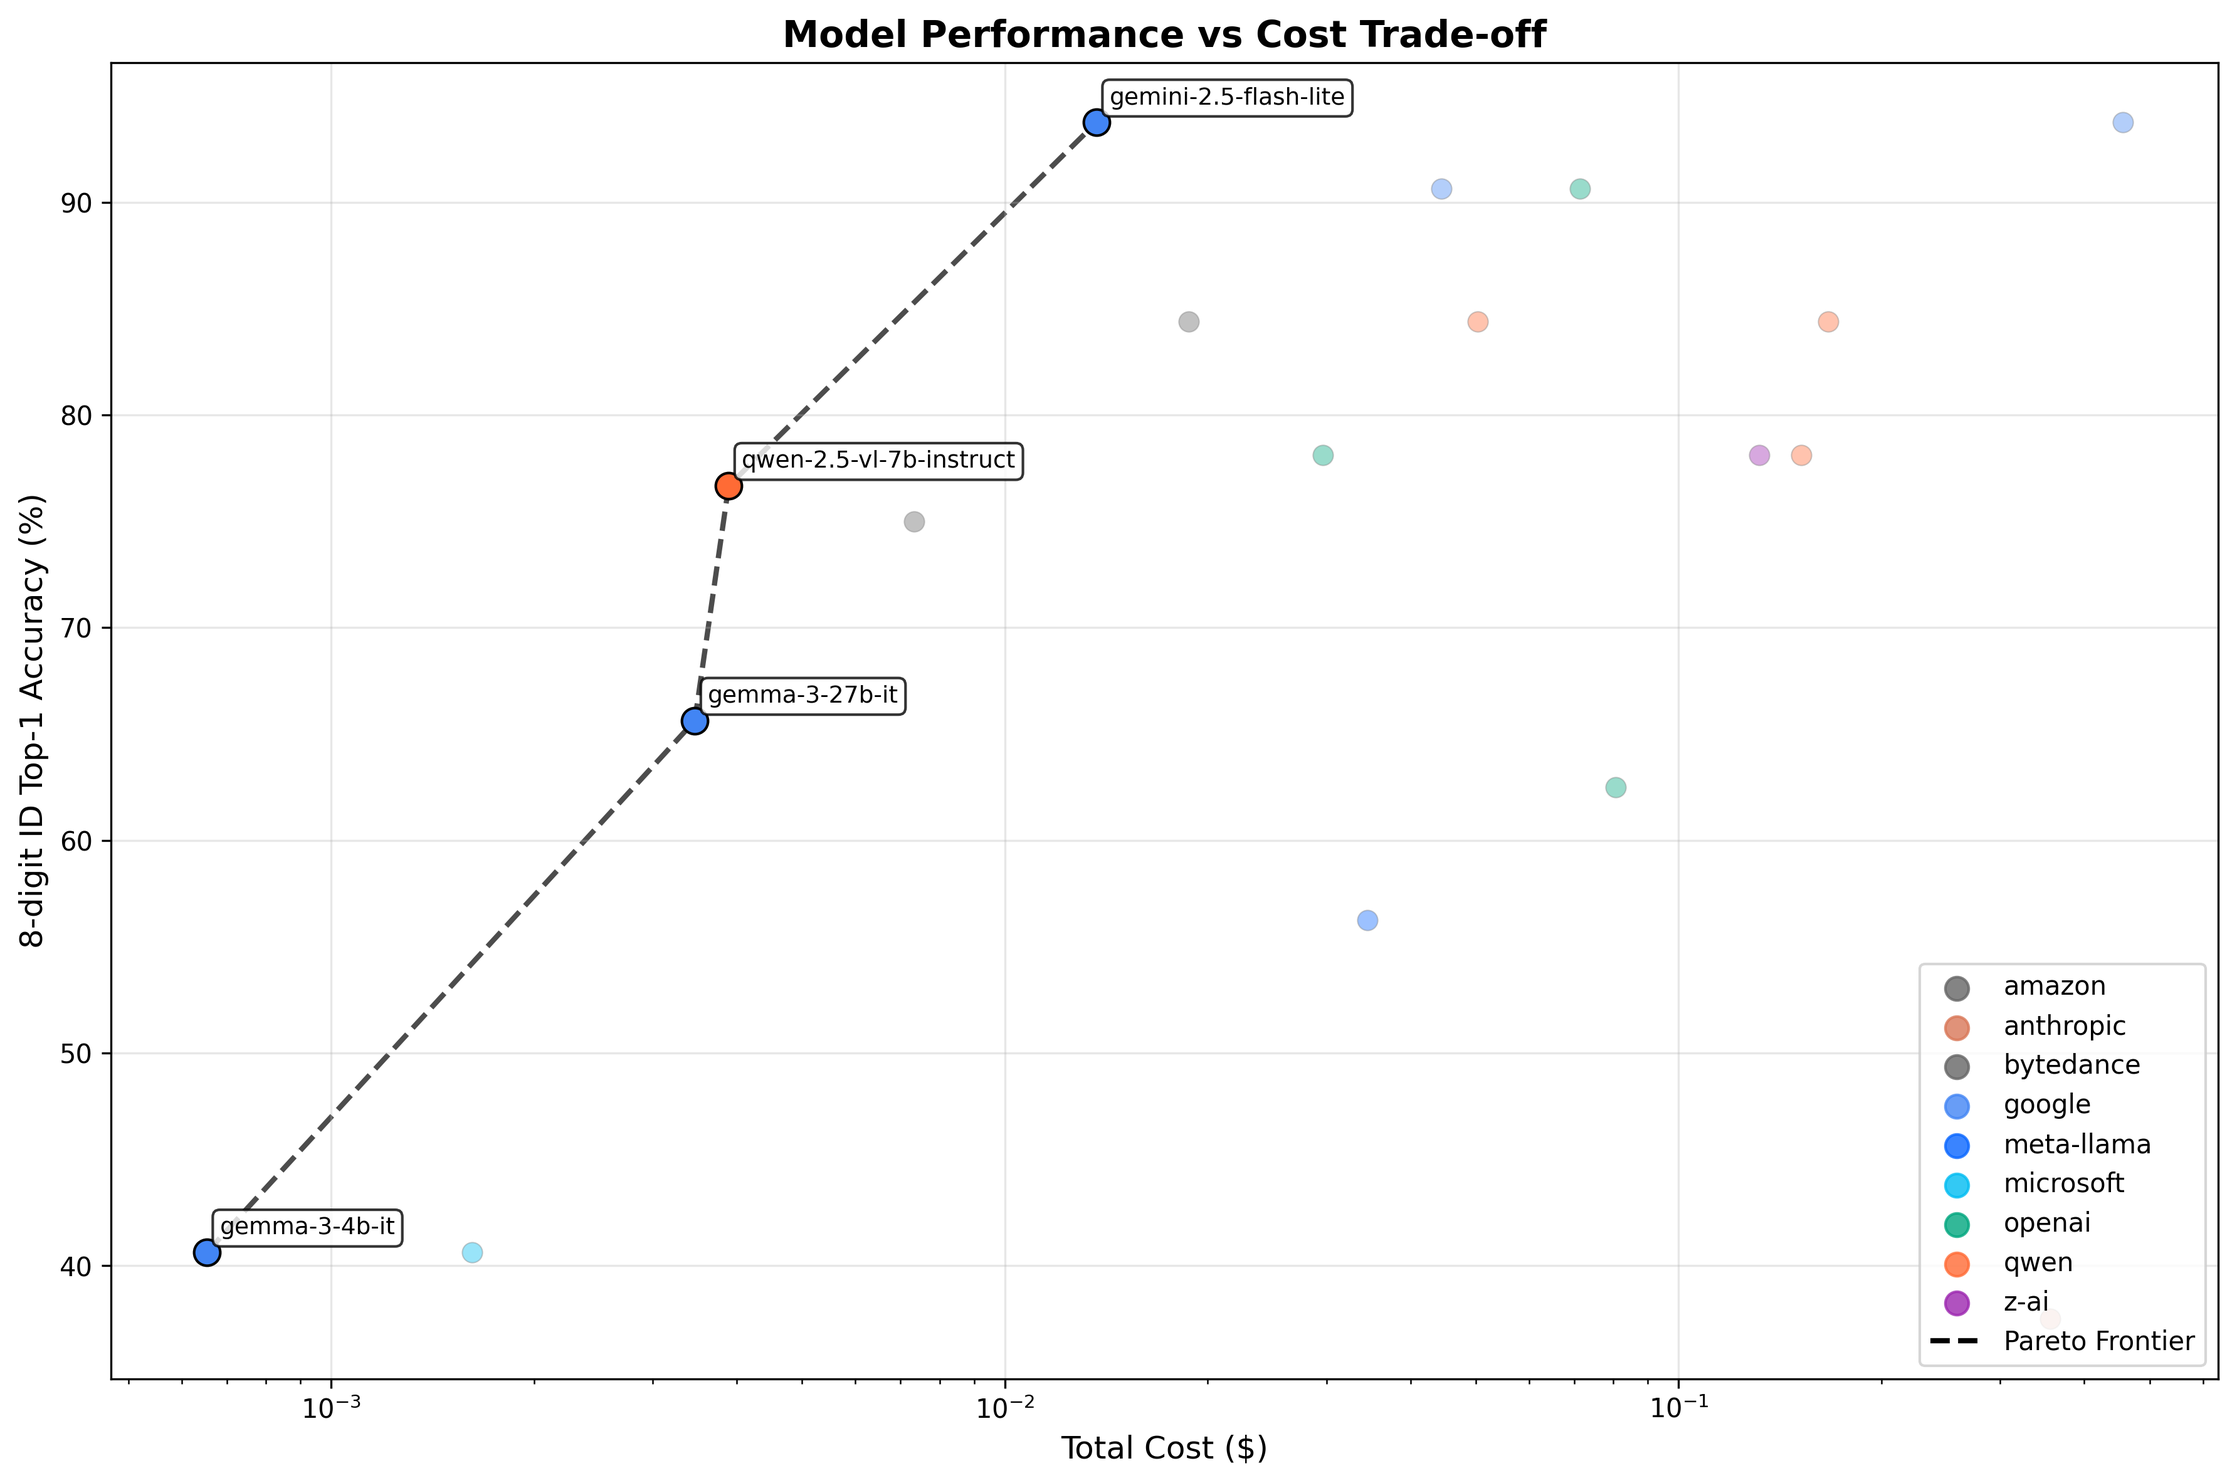
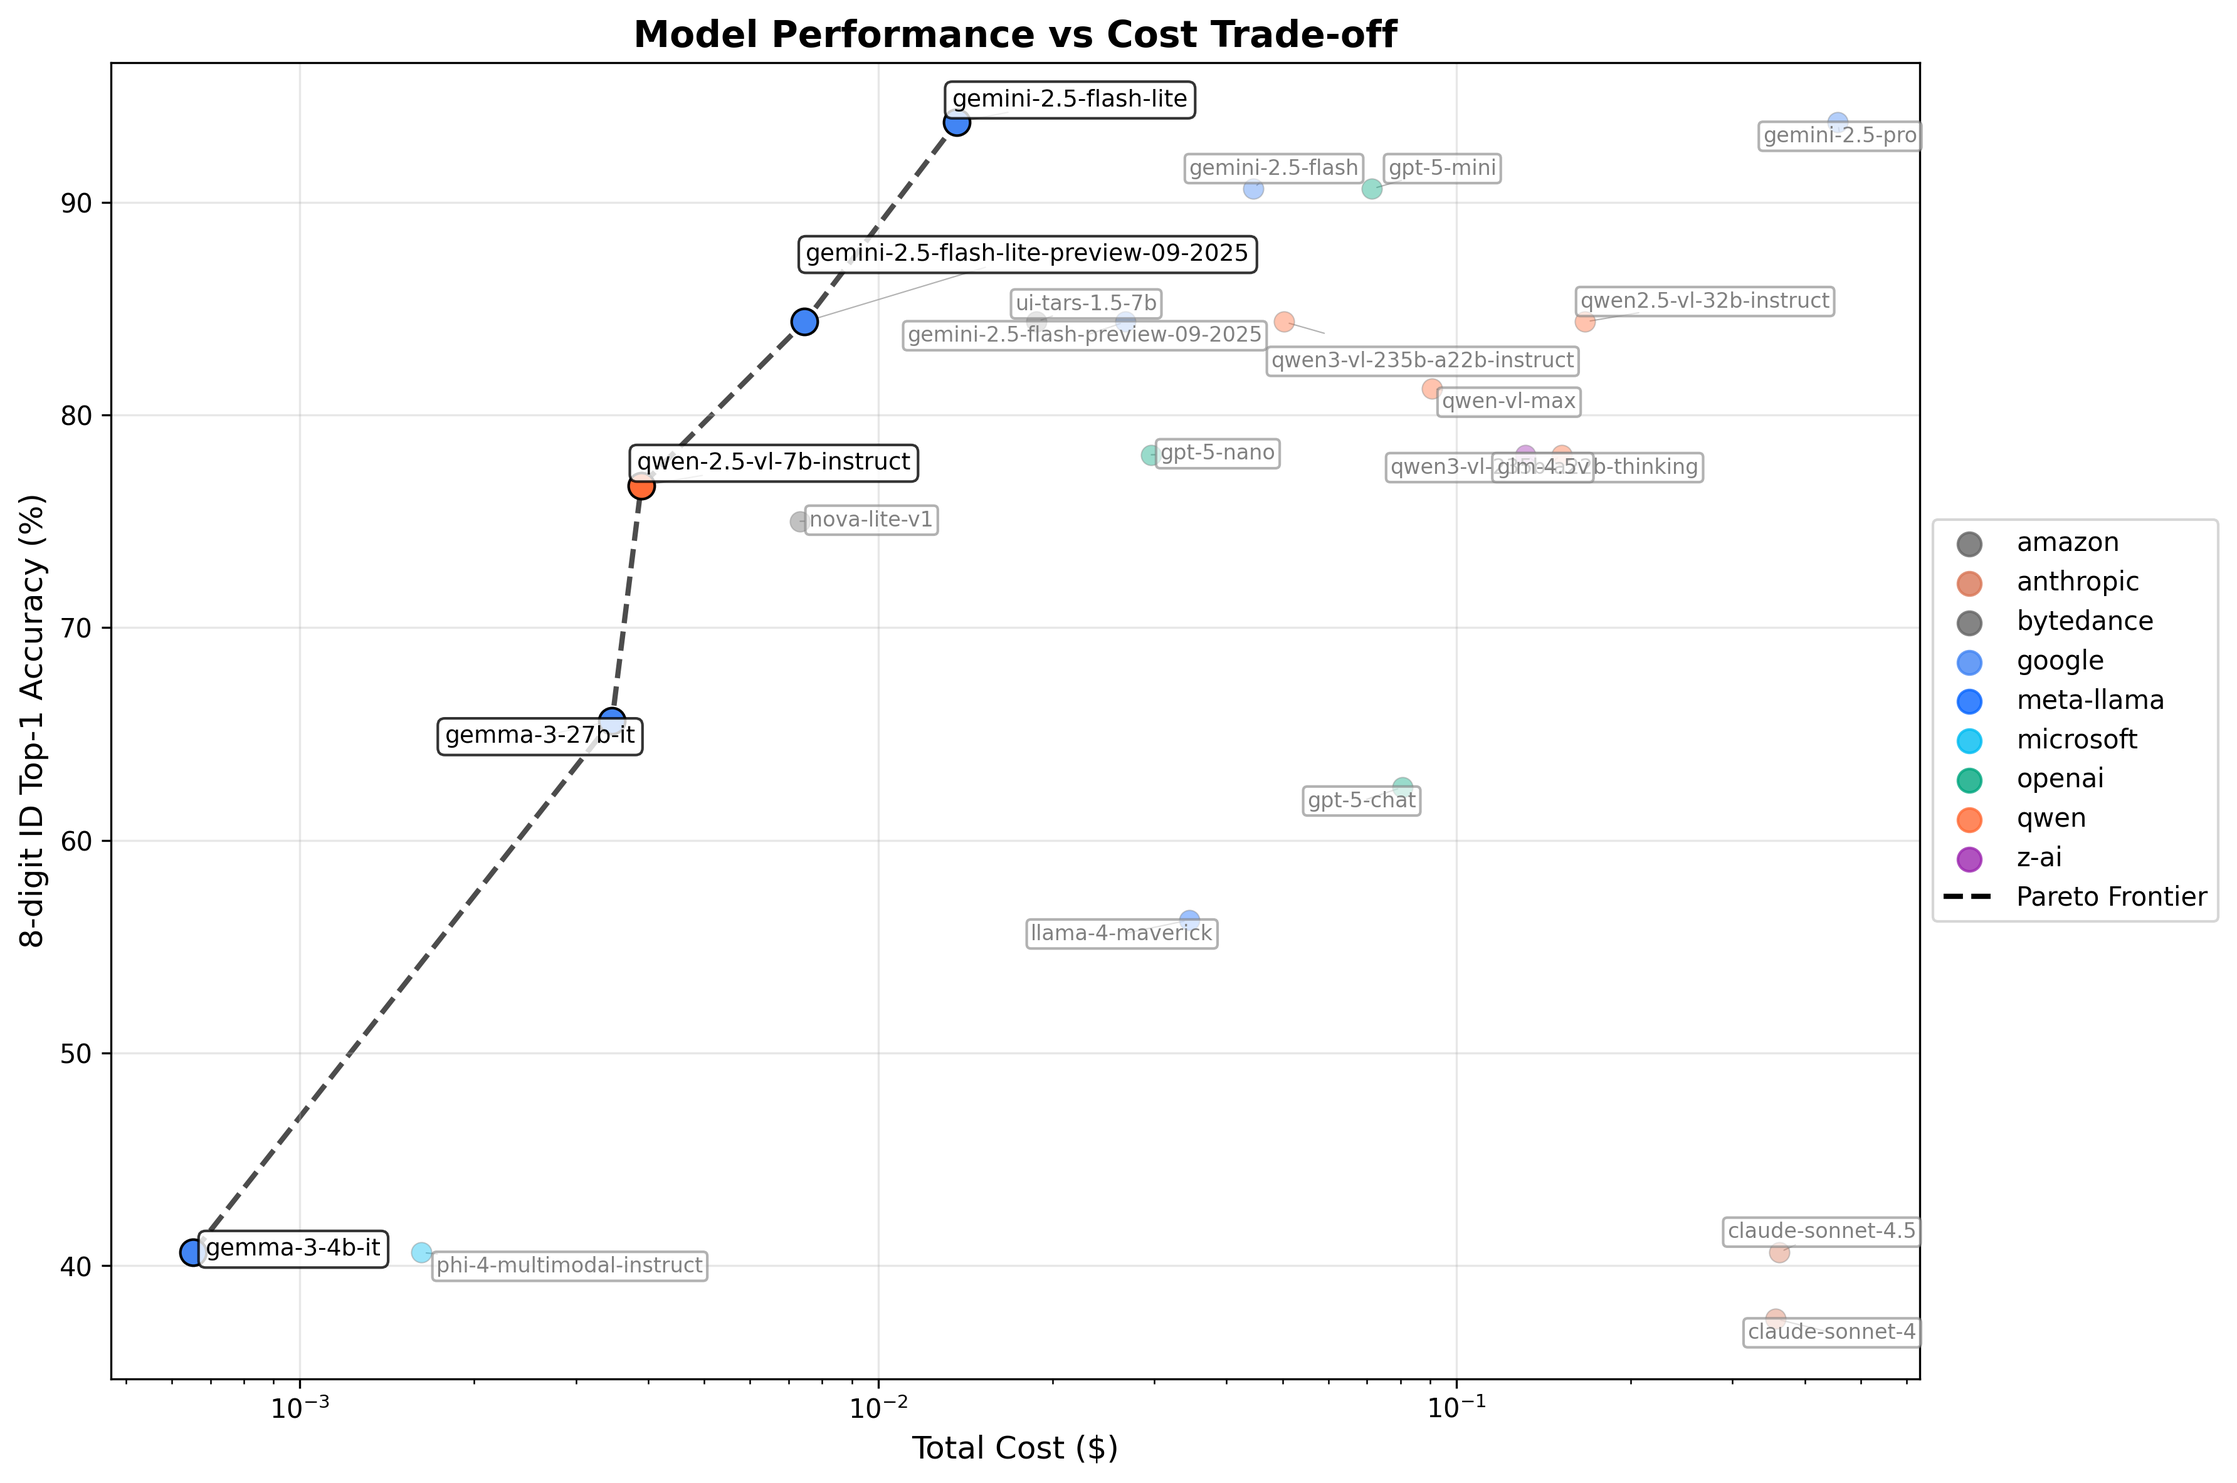
Update benchmark results and model metadata; add new models and adjust Pareto plot functionality

diff --git a/src/batch_doc_vqa/benchmarks/pareto_plot.py b/src/batch_doc_vqa/benchmarks/pareto_plot.py
@@ -9,6 +9,7 @@ import argparse
 from pathlib import Path
 from typing import Dict, List, Tuple
 import json
+from adjustText import adjust_text
 
 from .table_generator import BenchmarkTableGenerator
 
@@ -49,8 +50,9 @@ def get_organization_colors():
     }
 
 
+
 def create_pareto_plot(run_stats: Dict, output_path: str = "pareto_plot.png", 
-                      title: str = "Model Performance vs Cost Trade-off"):
+                      title: str = "Model Performance vs Cost Trade-off", show_all_labels: bool = True):
     """Create Pareto frontier plot for 8-digit_top1 vs total cost."""
     
     # Extract data
@@ -109,14 +111,28 @@ def create_pareto_plot(run_stats: Dict, output_path: str = "pareto_plot.png",
         frontier_scores = [id_top1_scores[i] for i in frontier_indices]
         ax.plot(frontier_costs, frontier_scores, 'k--', alpha=0.7, linewidth=2, zorder=1, label='Pareto Frontier')
     
-    # Add labels only for frontier models
+    # Collect text annotations for adjustText
+    texts = []
+    
+    # Add labels for frontier models (black text)
     for i in frontier_indices:
-        ax.annotate(model_names[i], 
-                   (total_costs[i], id_top1_scores[i]),
-                   xytext=(5, 5), textcoords='offset points',
-                   fontsize=9, ha='left', va='bottom',
-                   bbox=dict(boxstyle='round,pad=0.3', facecolor='white', alpha=0.8),
-                   zorder=4)
+        text = ax.annotate(model_names[i], 
+                          (total_costs[i], id_top1_scores[i]),
+                          fontsize=9, ha='center', va='center',
+                          bbox=dict(boxstyle='round,pad=0.3', facecolor='white', alpha=0.8, edgecolor='black'),
+                          zorder=4)
+        texts.append(text)
+    
+    # Add labels for non-frontier models (gray text) if show_all_labels is True
+    if show_all_labels:
+        for i, (cost, score) in enumerate(zip(total_costs, id_top1_scores)):
+            if i not in frontier_indices:
+                text = ax.annotate(model_names[i], 
+                                  (cost, score),
+                                  fontsize=8, ha='center', va='center', color='gray',
+                                  bbox=dict(boxstyle='round,pad=0.2', facecolor='white', alpha=0.6, edgecolor='gray'),
+                                  zorder=3)
+                texts.append(text)
     
     # Formatting
     ax.set_xscale('log')
@@ -137,7 +153,29 @@ def create_pareto_plot(run_stats: Dict, output_path: str = "pareto_plot.png",
         legend_elements.append(plt.Line2D([0], [0], color='black', linestyle='--', 
                                         linewidth=2, label='Pareto Frontier'))
     
-    ax.legend(handles=legend_elements, loc='lower right', fontsize=10)
+    ax.legend(handles=legend_elements, loc='center left', bbox_to_anchor=(1, 0.5), fontsize=10)
+    
+    # Apply adjustText LAST, after all plotting is complete
+    # This is crucial according to the documentation
+    if texts:
+        adjust_text(texts,
+                   ax=ax,
+                   # Slightly increased expansion for better text separation
+                   expand=(1.1, 1.25),
+                   # Prevent axes from expanding beyond reasonable limits
+                   ensure_inside_axes=True,
+                   expand_axes=False,
+                   # Limit horizontal movement, allow more vertical movement
+                   max_move=(30, 100),
+                   # Limit iterations to prevent runaway adjustments
+                   iter_lim=150,
+                   # Bias forces towards vertical movement (x_force, y_force)
+                   force_text=(0.05, 0.6),  # Low horizontal, high vertical repulsion
+                   force_explode=(0.05, 0.8),  # Initial vertical separation preferred
+                   force_static=(0.05, 0.3),  # Reduced horizontal static force
+                   force_pull=(0.01, 0.01),  # Keep pull forces balanced
+                   # Add arrows to connect moved labels to points
+                   arrowprops=dict(arrowstyle='-', color='gray', alpha=0.6, lw=0.5))
     
     # Adjust layout and save
     plt.tight_layout()
@@ -161,6 +199,8 @@ def main():
     parser.add_argument("--output", default="pareto_plot.png", help="Output plot file")
     parser.add_argument("--title", default="Model Performance vs Cost Trade-off", help="Plot title")
     parser.add_argument("--no-interactive", action="store_true", help="Skip interactive model review")
+    parser.add_argument("--hide-non-frontier-labels", action="store_true", 
+                       help="Hide labels for non-frontier models (default: show all labels in gray)")
     args = parser.parse_args()
     
     # Generate benchmark data
@@ -209,7 +249,7 @@ def main():
         }
     
     # Create plot
-    create_pareto_plot(run_stats, args.output, args.title)
+    create_pareto_plot(run_stats, args.output, args.title, show_all_labels=not args.hide_non_frontier_labels)
 
 
 if __name__ == "__main__":

diff --git a/src/batch_doc_vqa/update_benchmarks.py b/src/batch_doc_vqa/update_benchmarks.py
@@ -33,6 +33,8 @@ def main():
                        help="Skip interactive model review (add unknown models to needs_review list)")
     parser.add_argument("--interactive", action="store_true",
                        help="Force interactive model review even if unknown models exist")
+    parser.add_argument("--hide-non-frontier-labels", action="store_true",
+                       help="Hide labels for non-frontier models in Pareto plot (default: show all labels in gray)")
     args = parser.parse_args()
     
     # Build command for benchmark table generation
@@ -62,6 +64,8 @@ def main():
         pareto_cmd_parts.extend(["--patterns"] + args.patterns)
     if args.no_interactive:
         pareto_cmd_parts.append("--no-interactive")
+    if args.hide_non_frontier_labels:
+        pareto_cmd_parts.append("--hide-non-frontier-labels")
     
     pareto_cmd = " ".join(pareto_cmd_parts)
     if not run_command(pareto_cmd, "Generating Pareto plot", interactive=is_interactive):
@@ -77,10 +81,11 @@ def main():
     print("   git add BENCHMARKS.md README.md pareto_plot.png")
     print("   git commit -m 'Update benchmark tables and Pareto plot'")
     print("   git push")
-    print("\n📝 Usage notes:")
+    print("\n💡 Usage notes:")
     print("   • Default: Will prompt for interactive model review if unknown models found")
     print("   • --no-interactive: Skip review, add unknown models to needs_review list") 
     print("   • --interactive: Force review even if no unknown models")
+    print("   • --hide-non-frontier-labels: Hide model names for non-frontier points (default: show in gray)")
 
 if __name__ == "__main__":
     main()

diff --git a/BENCHMARKS.md b/BENCHMARKS.md
@@ -34,16 +34,16 @@ All VLM runs use the following consistent configuration:
 ## Complete Results
 
 
-| **Metric** | **OpenCV+CNN** | **qwen**<br>qwen3-vl-235b-a22b-thinking | **qwen**<br>qwen3-vl-235b-a22b-instruct | **qwen**<br>qwen-2.5-vl-7b-instruct | **qwen**<br>qwen2.5-vl-32b-instruct | **openai**<br>gpt-5-chat | **openai**<br>gpt-5-mini | **openai**<br>gpt-5-nano | **amazon**<br>nova-lite-v1 | **microsoft**<br>phi-4-multimodal-instruct | **google**<br>gemini-2.5-pro | **google**<br>gemini-2.5-flash-lite | **google**<br>gemma-3-27b-it | **google**<br>gemma-3-4b-it | **google**<br>gemini-2.5-flash | **bytedance**<br>ui-tars-1.5-7b | **meta-llama**<br>llama-4-maverick | **moonshotai**<br>kimi-vl-a3b-thinking:free | **anthropic**<br>claude-sonnet-4 | **z-ai**<br>glm-4.5v |
-|:---|:---|:---|:---|:---|:---|:---|:---|:---|:---|:---|:---|:---|:---|:---|:---|:---|:---|:---|:---|:---|
-| LLM model size | N/A | ?? | ?? | 7B | 32B | ?? | ?? | ?? | ?? | 5.6B | ?? | ?? | 27B | 4B | ?? | 7B | 400A17 | 16A3 | ?? | 106A12 |
-| Open-weights | N/A | No | No | Yes | Yes | No | No | No | No | Yes | No | No | Yes | Yes | No | Yes | Yes | Yes | No | Yes |
-| digit_top1 | 85.16% | 94.53% | 97.66% | 82.08% | 96.09% | 89.84% | 98.83% | 96.48% | 89.06% | 71.48% | **99.22%** | **99.22%** | 89.45% | 75.00% | 98.83% | 96.48% | 89.84% | 85.94% | 84.77% | 93.36% |
-| 8-digit id_top1 | ?? | 78.12% | 84.38% | 76.67% | 84.38% | 62.50% | 90.62% | 78.12% | 75.00% | 40.62% | **93.75%** | **93.75%** | 65.62% | 40.62% | 90.62% | 84.38% | 56.25% | 50.00% | 37.50% | 78.12% |
-| lastname_top1 | N/A | **100.00%** | 96.88% | **100.00%** | **100.00%** | **100.00%** | 96.88% | 90.62% | 96.88% | **100.00%** | 96.88% | 93.75% | **100.00%** | 90.62% | 96.88% | 96.88% | 93.75% | 96.88% | **100.00%** | **100.00%** |
-| ID Avg d_Lev | N/A | 0.4688 | 0.1875 | 1.6333 | 0.1562 | 0.5312 | 0.0938 | 0.2188 | 0.3750 | 1.2188 | **0.0625** | **0.0625** | 0.5000 | 0.9688 | 0.0938 | 0.1562 | 0.5312 | 0.9062 | 1.0938 | 0.2188 |
-| Lastname Avg d_Lev | N/A | **0.0000** | 0.0312 | **0.0000** | **0.0000** | **0.0000** | 0.0312 | 0.1250 | 0.0312 | **0.0000** | 0.0312 | 0.0625 | **0.0000** | 0.1250 | 0.0312 | 0.0312 | 0.0938 | 0.0938 | **0.0000** | **0.0000** |
-| Docs detected | 90.62% (29/32) | **100.00% (32/32)** | **100.00% (32/32)** | 93.75% (30/32) | **100.00% (32/32)** | **100.00% (32/32)** | **100.00% (32/32)** | **100.00% (32/32)** | **100.00% (32/32)** | **100.00% (32/32)** | **100.00% (32/32)** | **100.00% (32/32)** | **100.00% (32/32)** | **100.00% (32/32)** | **100.00% (32/32)** | **100.00% (32/32)** | **100.00% (32/32)** | **100.00% (32/32)** | **100.00% (32/32)** | **100.00% (32/32)** |
-| Runtime | **~1 second** | 13.9 minutes | 4.5 minutes | 6.8 minutes | 2.3 minutes | 2.8 minutes | 8.3 minutes | 10.5 minutes | 1.7 minutes | 2.1 minutes | 8.0 minutes | 2.3 minutes | 2.6 minutes | 2.0 minutes | 2.7 minutes | 1.8 minutes | 2.0 minutes | 9.5 minutes | 3.5 minutes | 6.2 minutes |
-| Cost per image | **$0.00** | $0.002376 | $0.000786 | $0.000081 | $0.002605 | $0.001260 | $0.001115 | $0.000463 | $0.000114 | $0.000025 | $0.007125 | $0.000214 | $0.000054 | $0.000010 | $0.000695 | $0.000293 | $0.000539 | **$0.000000** | $0.005567 | $0.002057 |
-| Total cost | **$0.00** | $0.1521 | $0.0503 | $0.0039 | $0.1667 | $0.0807 | $0.0714 | $0.0297 | $0.0073 | $0.0016 | $0.4560 | $0.0137 | $0.0035 | $0.0007 | $0.0445 | $0.0187 | $0.0345 | **$0.0000** | $0.3563 | $0.1316 |
+| **Metric** | **OpenCV+CNN** | **qwen**<br>qwen-vl-max | **qwen**<br>qwen3-vl-235b-a22b-thinking | **qwen**<br>qwen3-vl-235b-a22b-instruct | **qwen**<br>qwen-2.5-vl-7b-instruct | **qwen**<br>qwen2.5-vl-32b-instruct | **google**<br>gemini-2.5-flash-preview-09-2025 | **google**<br>gemini-2.5-flash-lite-preview-09-2025 | **google**<br>gemini-2.5-pro | **google**<br>gemini-2.5-flash-lite | **google**<br>gemma-3-27b-it | **google**<br>gemma-3-4b-it | **google**<br>gemini-2.5-flash | **anthropic**<br>claude-sonnet-4.5 | **anthropic**<br>claude-sonnet-4 | **openai**<br>gpt-5-chat | **openai**<br>gpt-5-mini | **openai**<br>gpt-5-nano | **amazon**<br>nova-lite-v1 | **microsoft**<br>phi-4-multimodal-instruct | **bytedance**<br>ui-tars-1.5-7b | **meta-llama**<br>llama-4-maverick | **moonshotai**<br>kimi-vl-a3b-thinking:free | **z-ai**<br>glm-4.5v |
+|:---|:---|:---|:---|:---|:---|:---|:---|:---|:---|:---|:---|:---|:---|:---|:---|:---|:---|:---|:---|:---|:---|:---|:---|:---|
+| LLM model size | N/A | ?? | 235A22 | 235A22 | 7B | 32B | ?? | ?? | ?? | ?? | 27B | 4B | ?? | ?? | ?? | ?? | ?? | ?? | ?? | 5.6B | 7B | 400A17 | 16A3 | 106A12 |
+| Open-weights | N/A | No | Yes | Yes | Yes | Yes | No | No | No | No | Yes | Yes | No | No | No | No | No | No | No | Yes | Yes | Yes | Yes | Yes |
+| digit_top1 | 85.16% | 97.27% | 94.53% | 97.66% | 82.08% | 96.09% | 98.05% | 97.66% | **99.22%** | **99.22%** | 89.45% | 75.00% | 98.83% | 82.81% | 84.77% | 89.84% | 98.83% | 96.48% | 89.06% | 71.48% | 96.48% | 89.84% | 85.94% | 93.36% |
+| 8-digit id_top1 | ?? | 81.25% | 78.12% | 84.38% | 76.67% | 84.38% | 84.38% | 84.38% | **93.75%** | **93.75%** | 65.62% | 40.62% | 90.62% | 40.62% | 37.50% | 62.50% | 90.62% | 78.12% | 75.00% | 40.62% | 84.38% | 56.25% | 50.00% | 78.12% |
+| lastname_top1 | N/A | 96.88% | **100.00%** | 96.88% | **100.00%** | **100.00%** | 96.88% | 96.88% | 96.88% | 93.75% | **100.00%** | 90.62% | 96.88% | 93.75% | **100.00%** | **100.00%** | 96.88% | 90.62% | 96.88% | **100.00%** | 96.88% | 93.75% | 96.88% | **100.00%** |
+| ID Avg d_Lev | N/A | 0.2188 | 0.4688 | 0.1875 | 1.6333 | 0.1562 | 0.1562 | 0.1875 | **0.0625** | **0.0625** | 0.5000 | 0.9688 | 0.0938 | 1.0000 | 1.0938 | 0.5312 | 0.0938 | 0.2188 | 0.3750 | 1.2188 | 0.1562 | 0.5312 | 0.9062 | 0.2188 |
+| Lastname Avg d_Lev | N/A | 0.0312 | **0.0000** | 0.0312 | **0.0000** | **0.0000** | 0.0312 | 0.0312 | 0.0312 | 0.0625 | **0.0000** | 0.1250 | 0.0312 | 0.0938 | **0.0000** | **0.0000** | 0.0312 | 0.1250 | 0.0312 | **0.0000** | 0.0312 | 0.0938 | 0.0938 | **0.0000** |
+| Docs detected | 90.62% (29/32) | **100.00% (32/32)** | **100.00% (32/32)** | **100.00% (32/32)** | 93.75% (30/32) | **100.00% (32/32)** | **100.00% (32/32)** | **100.00% (32/32)** | **100.00% (32/32)** | **100.00% (32/32)** | **100.00% (32/32)** | **100.00% (32/32)** | **100.00% (32/32)** | **100.00% (32/32)** | **100.00% (32/32)** | **100.00% (32/32)** | **100.00% (32/32)** | **100.00% (32/32)** | **100.00% (32/32)** | **100.00% (32/32)** | **100.00% (32/32)** | **100.00% (32/32)** | **100.00% (32/32)** | **100.00% (32/32)** |
+| Runtime | **~1 second** | 4.5 minutes | 13.9 minutes | 4.5 minutes | 6.8 minutes | 2.3 minutes | 4.4 minutes | 4.4 minutes | 8.0 minutes | 2.3 minutes | 2.6 minutes | 2.0 minutes | 2.7 minutes | 5.4 minutes | 3.5 minutes | 2.8 minutes | 8.3 minutes | 10.5 minutes | 1.7 minutes | 2.1 minutes | 1.8 minutes | 2.0 minutes | 9.5 minutes | 6.2 minutes |
+| Cost per image | **$0.00** | $0.001415 | $0.002376 | $0.000786 | $0.000081 | $0.002605 | $0.000418 | $0.000117 | $0.007125 | $0.000214 | $0.000054 | $0.000010 | $0.000695 | $0.005646 | $0.005567 | $0.001260 | $0.001115 | $0.000463 | $0.000114 | $0.000025 | $0.000293 | $0.000539 | **$0.000000** | $0.002057 |
+| Total cost | **$0.00** | $0.0906 | $0.1521 | $0.0503 | $0.0039 | $0.1667 | $0.0267 | $0.0075 | $0.4560 | $0.0137 | $0.0035 | $0.0007 | $0.0445 | $0.3614 | $0.3563 | $0.0807 | $0.0714 | $0.0297 | $0.0073 | $0.0016 | $0.0187 | $0.0345 | **$0.0000** | $0.1316 |
